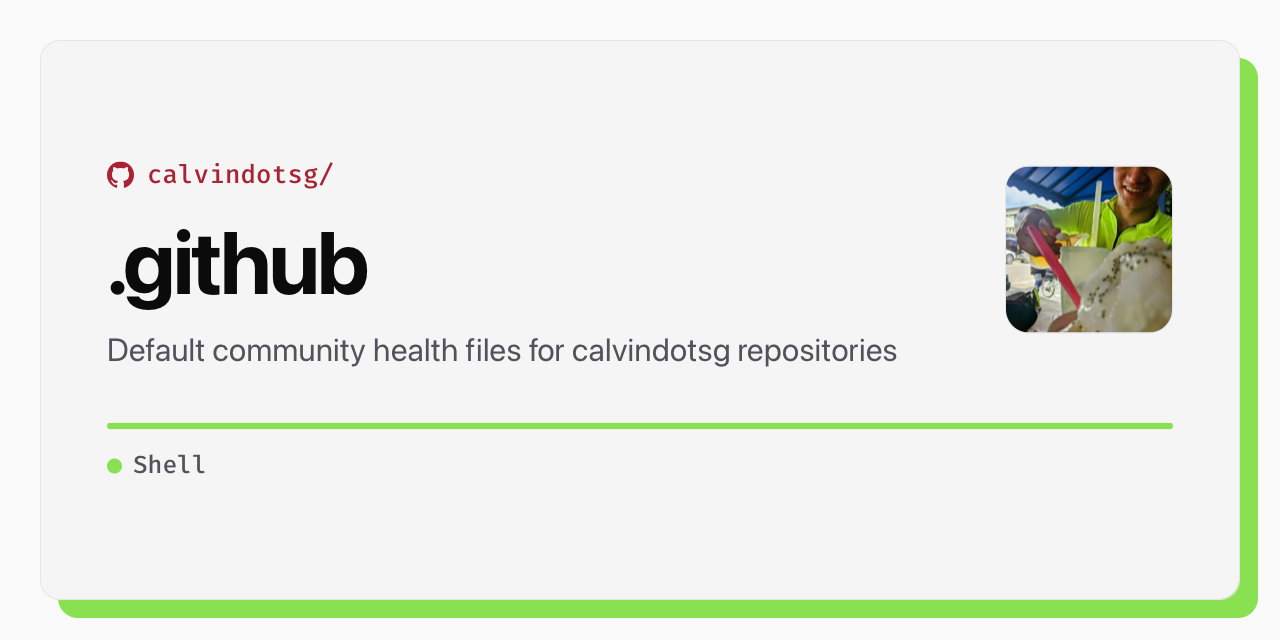
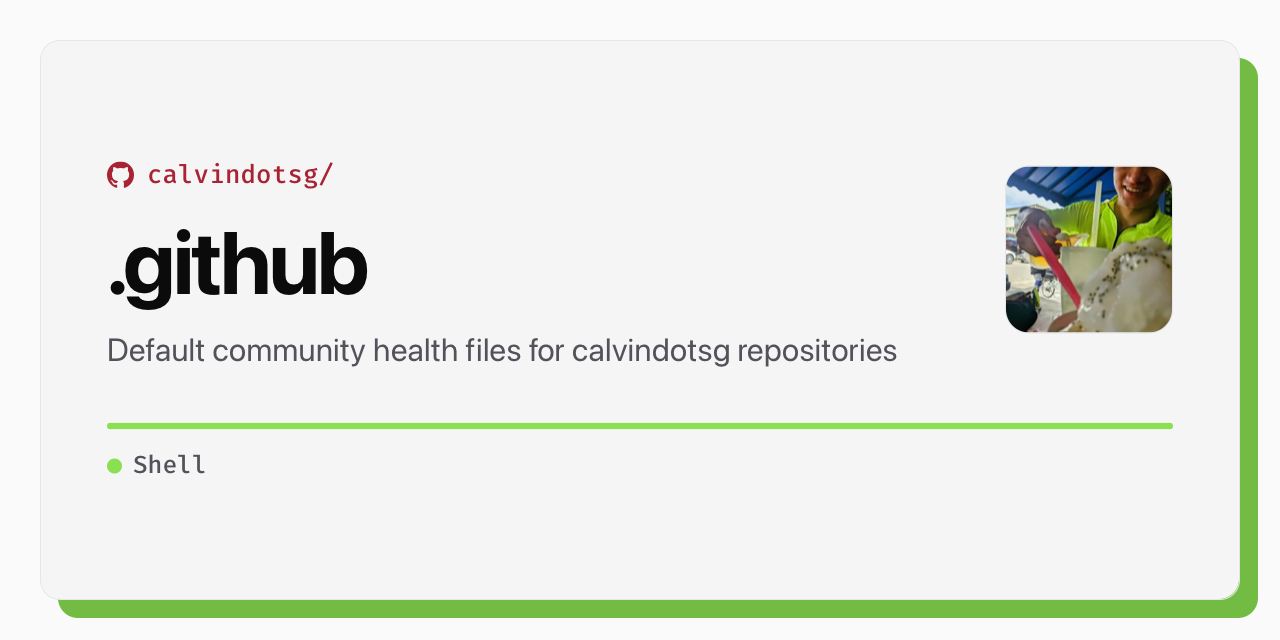
fix(social-preview): act on a multi-lens review — three gates that could not fail
A six-lens review panel with adversarial verification raised 49 findings; 26 survived refutation.
The three that mattered were the same species, and it is the species this branch keeps claiming
to guard against: a check that cannot report failure.

1. assert_png was advisory. Written as `say "  $(assert_png ...) -> ..."`, its exit status sat in
   a command substitution in argument position, where errexit never looks and the ERR trap never
   fires. Every condition it tests — not a PNG, wrong dimensions, over GitHub's 1 MB ceiling —
   printed a complaint and uploaded the bad file anyway. A bare assignment restores it; `local`
   would have re-swallowed it, because `local` becomes the reported command.

2. A reported upload failure skipped verification entirely. A non-zero return from upload_card
   means the eval did not hand back ok:true — not that the server rejected anything, since the
   cmux eval has its own timeout while the page keeps running, and the finalize PUT is what
   repoints og:image. The one branch where the state is genuinely unknown was the only branch
   never checked against the public page, while the operator was told the opposite.

3. The revert asserted its own success. It now reads the public page and words the message from
   what it finds, because remove_card returns the cmux CLI's status and its JS hands back a
   string on every path including the error ones.
[…]

Changed region(s): [[0.0312, 0.0938, 1.0, 0.9688]]

diff --git a/social-preview/card.html b/social-preview/card.html
@@ -364,39 +364,59 @@
     })[c]);
 
     /*
-     * THE SLAB IS LIFTED ONLY AS FAR AS IT HAS TO BE, AND THE DOT IS NEVER LIFTED.
+     * THE SLAB IS PUSHED AWAY FROM THE CANVAS, IN WHICHEVER DIRECTION THE CANVAS IS.
      *
      * linguist's palette was chosen to read as a 12px dot on a white repository list, not as a
-     * 1200px slab on a near-black canvas, and several of its entries are close to invisible
-     * there — Ruby's #701516 sits at 0.02 relative luminance against a 0.006 canvas, a slab
-     * you cannot see is a slab that isn't there. Blending toward white until the colour clears
-     * a low floor fixes that.
+     * 1200px slab, and at this size some of it disappears — but WHICH entries disappear flips
+     * with the theme. Measured against the two canvases: Ruby #701516 is 1.63:1 on the dark
+     * canvas and 11.13:1 on the light one; Shell #89e051 is the exact mirror, 11.55:1 on dark
+     * and 1.57:1 on light. An earlier version of this only ever blended toward white, which was
+     * right while dark was the default and became precisely wrong when light became it —
+     * lightening the colours that were already fine and ignoring the ones that had gone faint.
      *
-     * The floor is deliberately LOW. Lifting every language to a common luminance would make
-     * the set consistent and destroy the thing the slab is for: Ruby lifted that far lands on
-     * a pale rose within a few points of the brand accent, so the tap and the profile README
-     * would wear the same colour for opposite reasons. A small lift keeps the hue — dark red
-     * stays dark red — and only buys visibility.
+     * So the rule is stated once, in terms of the canvas rather than a direction: step the
+     * colour away from the canvas until it clears a contrast floor. The floor is deliberately
+     * low, because the slab has to be SEEN rather than read, and a high floor would drag every
+     * language toward the same value and destroy the thing the slab is for — at which point the
+     * tap and the profile README would wear the same colour for opposite reasons.
      */
-    function liftForCanvas(hex, floor) {
+    function relLuminance(rgb) {
+        const chan = (c) => {
+            const v = c / 255;
+            return v <= 0.03928 ? v / 12.92 : Math.pow((v + 0.055) / 1.055, 2.4);
+        };
+        return 0.2126 * chan(rgb[0]) + 0.7152 * chan(rgb[1]) + 0.0722 * chan(rgb[2]);
+    }
+
+    function contrast(a, b) {
+        const la = relLuminance(a), lb = relLuminance(b);
+        return (Math.max(la, lb) + 0.05) / (Math.min(la, lb) + 0.05);
+    }
+
+    function parseHex(hex) {
         const m = /^#?([0-9a-f]{6})$/i.exec(String(hex || "").trim());
         if (!m) return null;
-        const int = parseInt(m[1], 16);
-        let rgb = [(int >> 16) & 255, (int >> 8) & 255, int & 255];
-        const channel = (c) => {
-            const s = c / 255;
-            return s <= 0.03928 ? s / 12.92 : Math.pow((s + 0.055) / 1.055, 2.4);
-        };
-        const lum = (c) => 0.2126 * channel(c[0]) + 0.7152 * channel(c[1]) + 0.0722 * channel(c[2]);
-        const base = rgb.slice();
-        for (let t = 0; t <= 0.9 && lum(rgb) < floor; t += 0.02) {
-            rgb = base.map((c) => Math.round(c + (255 - c) * t));
+        const n = parseInt(m[1], 16);
+        return [(n >> 16) & 255, (n >> 8) & 255, n & 255];
+    }
+
+    function separateFromCanvas(hex, canvasHex, target) {
+        const base = parseHex(hex);
+        const canvas = parseHex(canvasHex);
+        if (!base || !canvas) return null;
+        // Away from the canvas: toward black on a light ground, toward white on a dark one.
+        const toward = relLuminance(canvas) > 0.4 ? 0 : 255;
+        let rgb = base.slice();
+        for (let t = 0; t <= 0.9 && contrast(rgb, canvas) < target; t += 0.02) {
+            rgb = base.map((c) => Math.round(c + (toward - c) * t));
         }
         return "#" + rgb.map((c) => c.toString(16).padStart(2, "0")).join("");
     }
 
     const trueColor = CARD.languageColor || null;
-    const slabColor = liftForCanvas(trueColor, 0.1);
+    const canvasColor = getComputedStyle(document.documentElement)
+        .getPropertyValue("--canvas").trim();
+    const slabColor = separateFromCanvas(trueColor, canvasColor, 2.2);
     if (slabColor) {
         document.documentElement.style.setProperty("--lang", slabColor);
         document.documentElement.style.setProperty("--lang-true", trueColor);

diff --git a/social-preview/README.md b/social-preview/README.md
@@ -46,13 +46,12 @@ been decoration is carrying information instead.
 That leaves the install command as the clearest single win, and `repos.json` is where the three
 that have one keep it. It is optional: a repository with no entry still gets a card.
 
-## The language bar is only as truthful as each repo's `.gitattributes`
+## The language bar is only as truthful as linguist's defaults
 
-The bar states a fact about a repository, so it is worth knowing where that fact comes from and
-how it goes wrong. GitHub computes it with [linguist][linguist], which counts bytes of tracked
-files on the **default branch** and, by default, counts only languages whose type in
-`languages.yml` is `programming` or `markup`. Everything else — `prose` and `data` — is
-invisible. `.gitattributes` is the documented way to correct that, per
+The bar states a fact about a repository, so it is worth knowing where that fact comes from.
+GitHub computes it with [linguist][linguist], which counts bytes of tracked files on the
+**default branch**, and by default counts only languages whose type in `languages.yml` is
+`programming` or `markup`. `.gitattributes` can override that, per
 [linguist's overrides doc][overrides]:
 
 | Attribute | Effect |
@@ -63,33 +62,38 @@ invisible. `.gitattributes` is the documented way to correct that, per
 | `linguist-vendored` | Exclude — code you did not write |
 | `linguist-language=NAME` | Reclassify |
 
-All six repositories were audited against this. **No vendored, generated or documentation files
-are being miscounted anywhere** — nothing commits build output, and every repository's markdown
-is already correctly excluded as prose. One defect was real:
+All six repositories were audited against this. **Nothing needed overriding.** No repository
+commits build output, nothing is vendored that should not be, and every repository's prose is
+already correctly excluded.
 
-**`prose` invisibility on a repository whose product is prose.** This repository's markdown —
-`SECURITY.md`, the pull-request template, the issue forms — is exactly what the other
-repositories inherit, and it counted for nothing. Adding `social-preview/card.html` would have
-made that worse, reporting a community-health repository as Shell 68% / HTML 32% with the
-markdown still invisible. `.gitattributes` here now carries `*.md linguist-detectable`, giving
-Shell 52% / HTML 24% / Markdown 24%.
+**Two exclusions are worth knowing because they are not obvious**, and between them they sank a
+change this branch originally carried:
 
-**It is a per-repository judgement, not a setting to standardise.** Two repositories that look
-like the same case are not:
+- `vendor.yml` matches `(^|/)\.github/` — **everything under a `.github/` directory is vendored**
+  and cannot be counted, whatever `.gitattributes` says about it.
+- `documentation.yml` matches `(^|/)README(\.|$)` — every README is documentation, at any depth.
 
-- **`portfolio-v2`** — the same line would let roughly a megabyte of `plans/` outweigh the site's
-  own source. Deliberately not applied. Its numbers are already correct: TypeScript genuinely
-  dominates, though note ~83% of that TypeScript is the test suite, which linguist counts as
-  source by design.
-- **`calvindotsg`** (the profile README) — the same line would report `Markdown 100%` off a 2 KB
-  README. Deliberately not applied either, for the opposite reason: it is *accurate* and tells a
-  reader nothing, and it would trade the one card in the set that legitimately wears the brand
-  accent for linguist's Markdown blue. One line in that repository if this is ever wanted.
+This repository briefly carried `*.md linguist-detectable`, on the reasoning that its
+community-health markdown is what the other repositories inherit and so ought to count. The
+reasoning was wrong twice over. The pull-request template lives under `.github/` and is vendored,
+both READMEs are documentation, so the attribute reached only `SECURITY.md` — and by bytes the
+repository really is two large commented shell scripts (52 KB) plus a card template (22 KB)
+against 2.5 KB of health files. Markdown lands at 2.9%, or 3.3% even if `.github/**` were
+un-vendored as well. "Markdown is what this repository ships" is true of its purpose and false
+of its bytes, and linguist measures bytes. The override was removed.
+
+Two repositories that look like candidates and are not, for the record:
+
+- **`portfolio-v2`** — making markdown detectable would let roughly a megabyte of `plans/`
+  outweigh the site's own source. Its numbers are already right, though note that ~83% of the
+  reported TypeScript is the test suite, which linguist counts as source by design.
+- **`calvindotsg`** (the profile README) — would report an accurate and useless `Markdown 100%`
+  off a 2 KB README, and would cost the one card in the set that legitimately wears the brand
+  accent.
 
 **A merge that changes the language mix invalidates the committed cards.** Linguist reads the
-default branch, so this repository's own card still shows `Shell` alone until this branch lands
-and GitHub re-indexes. Re-run the script for any repository whose languages have moved — there
-is no notification, and the card will keep asserting the old numbers indefinitely.
+default branch, and there is no notification: re-run the script for any repository whose
+languages have moved, or the card will keep asserting the old numbers indefinitely.
 
 [linguist]: https://github.com/github-linguist/linguist
 [overrides]: https://github.com/github-linguist/linguist/blob/main/docs/overrides.md
@@ -111,7 +115,7 @@ from GitHub's own S3 bucket, and the CDN URL 404 for over 45 minutes. `--remove`
 generated card back.
 
 **To roll out once GitHub fixes it**, confirm on one repository that the script prints
-`set and serving` rather than `serving: not yet`, then:
+`serving after Ns` rather than `NOT serving after Ns`, then:
 
 ```bash
 ./scripts/social-preview.sh \
@@ -124,11 +128,12 @@ generated card back.
 One template, `card.html`, filled per repository. Every value except the install command is read
 from the repository at render time. Nothing re-runs this script on its own, so a committed card
 is a **snapshot**: a star arriving or a description being edited leaves it stale until someone
-runs it again. That is the cost the eligibility rule above is paying for.
+runs it again, and a merge that shifts a repository's languages is the most likely
+reason it needs re-running.
 
 | | |
 |---|---|
-| **Palette** | calvin.sg's dark theme, token for token — `#111111` canvas, `#171717` card, `#2C2C2C` rule, `#FAFAFA` ink, `#F3A3AA` accent. Not a second brand to maintain. |
+| **Palette** | calvin.sg's, token for token, and both of its themes ship. Light is the default — `#FAFAFA` canvas, `#F5F5F5` card, `#E5E5E5` rule, `#0B0B0B` ink, `#A82334` accent. `--theme dark` gives the Mocha set. Not a second brand to maintain. |
 | **Type** | SF Pro for prose. FiraCode for the handle, language, licence and topics — every repository here is something you install and run from a shell, so the machine-readable half of the card is set in the font that account's terminal uses. |
 | **Signature** | The offset slab behind the card, inherited from the portrait treatment on calvin.sg — and coloured by the repository's **primary language**, not by the brand. The same element that makes the account's cards one set tells them apart before a word is read. The dot beside the language name is the legend. |
 | **Install line** | The one element the generated card cannot have. Set as a terminal line — recessed, monospaced, with the prompt in the language colour — because that is where the command will be typed. |
@@ -138,12 +143,17 @@ Language colours come from `primaryLanguage.color` on GitHub's GraphQL API, whic
 linguist's own value. No copy of that table is kept here. A repository with no language — a
 profile README — falls back to the brand accent, which is the honest answer for one.
 
-Linguist's palette was picked for a 12px dot on a white list, and some of it disappears on a
-near-black canvas: Ruby's `#701516` sits at 0.02 relative luminance. The slab lifts a colour
-toward white only until it clears a low floor, so dark red stays dark red. Lifting every language
-to a common luminance would read more evenly and destroy the point — Ruby lifted that far lands
-within a few points of the brand pink, so the tap and the profile README would wear the same
-colour for opposite reasons.
+Linguist's palette was picked for a 12px dot on a repository list, not for a 1200px slab, and at
+this size some of it disappears — but *which* entries disappear flips with the theme. Measured:
+Ruby `#701516` is 1.63:1 against the dark canvas and 11.13:1 against the light one; Shell
+`#89e051` is the exact mirror, 11.55:1 on dark and 1.57:1 on light. So the slab steps its colour
+*away from the canvas* — toward black on a light ground, toward white on a dark one — until it
+clears a low contrast floor. Only the colours that need it move: on the light default, Shell
+becomes `#73bc44` at 2.23:1 and every other language is untouched.
+
+The floor is deliberately low. Pushing every language to a common contrast would read more evenly
+and destroy the thing the slab is for — Ruby taken that far lands within a few points of the
+brand accent, so the tap and the profile README would wear the same colour for opposite reasons.
 
 Two things are measured at render time rather than fixed: the headline steps down until the name
 fits on one line, and topics are dropped from the tail until the row fits. Both exist so adding a
